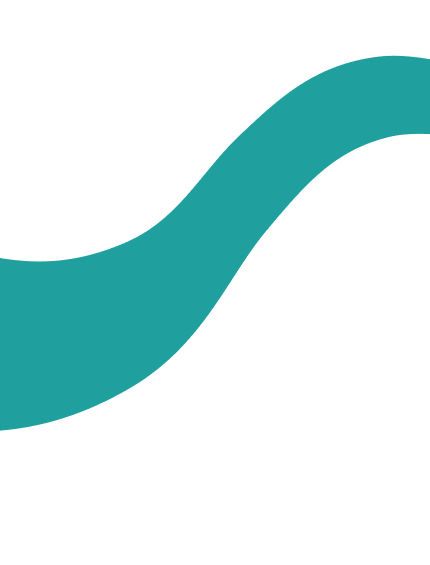
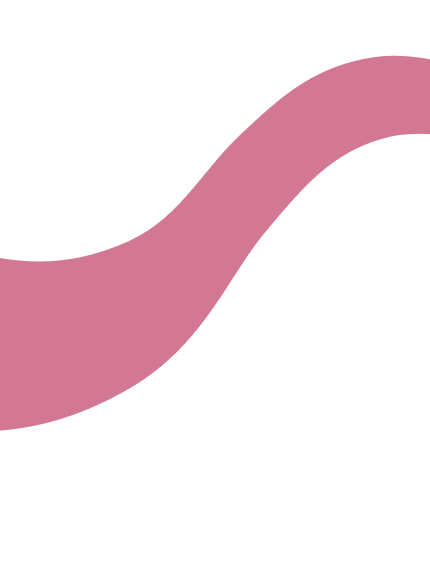
ui updates

Changed region(s): [[0.0, 0.0903, 1.0, 0.7823]]

diff --git a/lib/presentation/player/levels/levels_screen.dart b/lib/presentation/player/levels/levels_screen.dart
@@ -1,6 +1,7 @@
 import 'package:flutter/material.dart';
 import 'package:let_s_have_fun/presentation/another_screen/play_area.dart';
 import 'package:let_s_have_fun/widgets/level_item.dart';
+import '../../../core/app_export.dart';
 import '../../admin/exercies_management/model/Exercise.dart';
 
 class LevelsScreen extends StatelessWidget {
@@ -22,20 +23,34 @@ class LevelsScreen extends StatelessWidget {
                 child: Column(
                   mainAxisSize: MainAxisSize.min,
                   children: [
-                    Container(
-                      alignment: Alignment.centerRight,
-                      padding: EdgeInsets.only(right: 20.0),
-                      child: Column(
-                        crossAxisAlignment: CrossAxisAlignment.start,
-                        mainAxisSize: MainAxisSize.min,
-                        children: [
-                          Text(exercise.title,style: TextStyle(
-                              fontSize: 24 ,
-                              fontWeight: FontWeight.bold ,
-                              color: Colors.white
-                          ), ),
-                        ],
-                      ),
+                    Row(
+                      children: [
+                        Container(
+                          alignment: Alignment.centerRight,
+                          padding: EdgeInsets.only(right: 20.0),
+                          child: Column(
+                            crossAxisAlignment: CrossAxisAlignment.start,
+                            mainAxisSize: MainAxisSize.min,
+                            children: [
+                              Text(exercise.title,style: TextStyle(
+                                  fontSize: 24 ,
+                                  fontWeight: FontWeight.bold ,
+                                  color: Colors.white
+                              ), ),
+                            ],
+                          ),
+                        ),
+                        Spacer(),
+                        Padding(
+                          padding: const EdgeInsets.all(8.0),
+                          child: CircleAvatar(
+                            backgroundColor: Colors.white,
+                            child: IconButton(onPressed: (){
+                              Get.back();
+                            }, icon: Icon(Icons.home,color: Colors.red,)),
+                          ),
+                        ),
+                      ],
                     ),
                     Expanded(
                       child: ListView.builder(

diff --git a/lib/presentation/player/games/game_screen.dart b/lib/presentation/player/games/game_screen.dart
@@ -34,16 +34,37 @@ class GameScreen extends StatelessWidget {
                         crossAxisAlignment: CrossAxisAlignment.start,
                         mainAxisSize: MainAxisSize.min,
                         children: [
-                          Text(level.title,style: TextStyle(
-                              fontSize: 24 ,
-                              fontWeight: FontWeight.bold ,
-                              color: Colors.white
-                          ), ),
-                          Text(AppStrings.level +' '+(level.levelNumber??''),style: TextStyle(
-                              fontSize: 14 ,
-                              fontWeight: FontWeight.bold ,
-                              color: Colors.white
-                          ),),
+
+                          Row(
+                            crossAxisAlignment: CrossAxisAlignment.start,
+                            children: [
+                              Column(
+                                children: [
+                                  Text(level.title,style: TextStyle(
+                                      fontSize: 24 ,
+                                      fontWeight: FontWeight.bold ,
+                                      color: Colors.white
+                                  ), ),
+                                  Text(AppStrings.level +' '+(level.levelNumber??''),style: TextStyle(
+                                      fontSize: 14 ,
+                                      fontWeight: FontWeight.bold ,
+                                      color: Colors.white
+                                  ),),
+                                ],
+                              ),
+                              Spacer(),
+                              Padding(
+                                padding: const EdgeInsets.all(8.0),
+                                child: CircleAvatar(
+                                  backgroundColor: Colors.white,
+                                  child: IconButton(onPressed: (){
+                                    Get.back();
+                                    Get.back();
+                                  }, icon: Icon(Icons.home,color: Colors.red,)),
+                                ),
+                              ),
+                            ],
+                          ),
                         ],
                       ),
                     ),

diff --git a/lib/presentation/another_screen/switch_user_screen.dart b/lib/presentation/another_screen/switch_user_screen.dart
@@ -30,7 +30,7 @@ class SwitchUserScreen extends StatelessWidget {
                           Get.toNamed(AppRoutes.playerLoginScreen);
                         }, child: Text(AppStrings.player),
                             style: ElevatedButton.styleFrom(
-                                primary: Color(0xFF1E9F9E),
+                                primary: Color(0xFFD27893),
                                 foregroundColor: Colors.white
                             )),
                       ),
@@ -41,7 +41,7 @@ class SwitchUserScreen extends StatelessWidget {
                           Get.toNamed(AppRoutes.adminLoginScreen);
                         }, child: Text(AppStrings.admin),
                             style: ElevatedButton.styleFrom(
-                                primary: Color(0xFF1E9F9E),
+                                primary: Color(0xFFD27893),
                                 foregroundColor: Colors.white
                             )),
                       ),
@@ -52,7 +52,7 @@ class SwitchUserScreen extends StatelessWidget {
                           Get.toNamed(AppRoutes.doctorLoginScreen);
                         }, child: Text(AppStrings.theDoctor),
                             style: ElevatedButton.styleFrom(
-                                primary: Color(0xFF1E9F9E),
+                                primary: Color(0xFFD27893),
                                 foregroundColor: Colors.white
                             )),
                       ),

diff --git a/lib/core/utils/color_constant.dart b/lib/core/utils/color_constant.dart
@@ -7,17 +7,18 @@ class ColorConstant {
                                   fromHex('#FEED9B'),
                                   fromHex('#C1FAA9'),
                                   fromHex('#7CF0A7'),];
-   static  const MaterialColor  primary = MaterialColor(0xFF8DEFEE, {
-    50: Color.fromRGBO(141, 239, 238, .1),
-    100: Color.fromRGBO(141, 239, 238, .2),
-    200: Color.fromRGBO(141, 239, 238, .3),
-    300: Color.fromRGBO(141, 239, 238, .4),
-    400: Color.fromRGBO(141, 239, 238, .5),
-    500: Color.fromRGBO(141, 239, 238, .6),
-    600: Color.fromRGBO(141, 239, 238, .7),
-    700: Color.fromRGBO(141, 239, 238, .8),
-    800: Color.fromRGBO(141, 239, 238, .9),
-    900: Color.fromRGBO(141, 239, 238, 1),
+   static  const MaterialColor  primary = MaterialColor(0xFFF7CED8, {
+     50: Color.fromRGBO(247, 206, 216, 0.1),
+     100: Color.fromRGBO(247, 206, 216, 0.2),
+     200: Color.fromRGBO(247, 206, 216, 0.3),
+     300: Color.fromRGBO(247, 206, 216, 0.4),
+     400: Color.fromRGBO(247, 206, 216, 0.5),
+     500: Color.fromRGBO(247, 206, 216, 0.6),
+     600: Color.fromRGBO(247, 206, 216, 0.7),
+     700: Color.fromRGBO(247, 206, 216, 0.8),
+     800: Color.fromRGBO(247, 206, 216, 0.9),
+     900: Color.fromRGBO(247, 206, 216, 1.0),
+
   });
 }
 

diff --git a/lib/core/utils/app_strings.dart b/lib/core/utils/app_strings.dart
@@ -90,11 +90,8 @@ class AppStrings {
   static const String  chooseUser = 'اختر المستخدم';
 
   static const String chooseLevelOrEx = 'اختر التمرين والمستوي';
-  static const String chooseLevel = 'اختر المستوي';
   static const String logout = 'تسجيل الخروج';
   static const String playHistory = 'سجل العب';
-  static const String chooseLevelOrEx = 'اختر التمرين والمستوي';
-  static const String chooseLevel = 'اختر المستوي';
-  static const String logout = 'تسجيل الخروج';
+  //static const String chooseLevel = 'اختر المستوي';
 
 }

diff --git a/lib/presentation/player/auth/login/player_login_screen.dart b/lib/presentation/player/auth/login/player_login_screen.dart
@@ -31,8 +31,8 @@ class PlayerLoginScreen extends StatelessWidget {
                         child: ElevatedButton(onPressed: () {
                           Get.toNamed(AppRoutes.exercisesScreen);
                         }, child: Text(AppStrings.login),
-                            style: ElevatedButton.styleFrom(
-                                primary: Color(0xFF1E9F9E),
+                            style: ElevatedButton.styleFrom( 
+                                primary: Color(0xFFD27893),
                                 foregroundColor: Colors.white
                             )),
                       ),

diff --git a/lib/presentation/admin/auth/login/admin_login_screen.dart b/lib/presentation/admin/auth/login/admin_login_screen.dart
@@ -32,7 +32,7 @@ class AdminLoginScreen extends StatelessWidget {
                           Get.toNamed(AppRoutes.exerciseManagementAdmin);
                         }, child: Text(AppStrings.login),
                             style: ElevatedButton.styleFrom(
-                                primary: Color(0xFF1E9F9E),
+                                primary: Color(0xFFD27893),
                                 foregroundColor: Colors.white
                             )),
                       ),

diff --git a/lib/presentation/doctor/auth/login/doctor_login_screen.dart b/lib/presentation/doctor/auth/login/doctor_login_screen.dart
@@ -32,7 +32,7 @@ class DoctorLoginScreen extends StatelessWidget {
                           Get.toNamed(AppRoutes.showAllChildrenDoctors);
                         }, child: Text(AppStrings.login),
                             style: ElevatedButton.styleFrom(
-                                primary: Color(0xFF1E9F9E),
+                                primary: Color(0xFFD27893),
                                 foregroundColor: Colors.white
                             )),
                       ),

diff --git a/lib/presentation/player/auth/register/player_register_screen.dart b/lib/presentation/player/auth/register/player_register_screen.dart
@@ -35,7 +35,7 @@ class PlayerRegisterScreen extends StatelessWidget {
                         Get.toNamed(AppRoutes.exercisesScreen);
                       }, child: Text(AppStrings.register),
                       style: ElevatedButton.styleFrom(
-                        primary: Color(0xFF1E9F9E),
+                        primary: Color(0xFFD27893),
                         foregroundColor: Colors.white
                       )),
                     ),

diff --git a/lib/routes/app_routes.dart b/lib/routes/app_routes.dart
@@ -185,7 +185,7 @@ class AppRoutes {
     GetPage (
       name: switchUserLoginScreen,
       page: () => SwitchUserScreen()
-    )
+    ),
     GetPage (
       name: playerRecords,
       page: () => PlayerRecords(),
